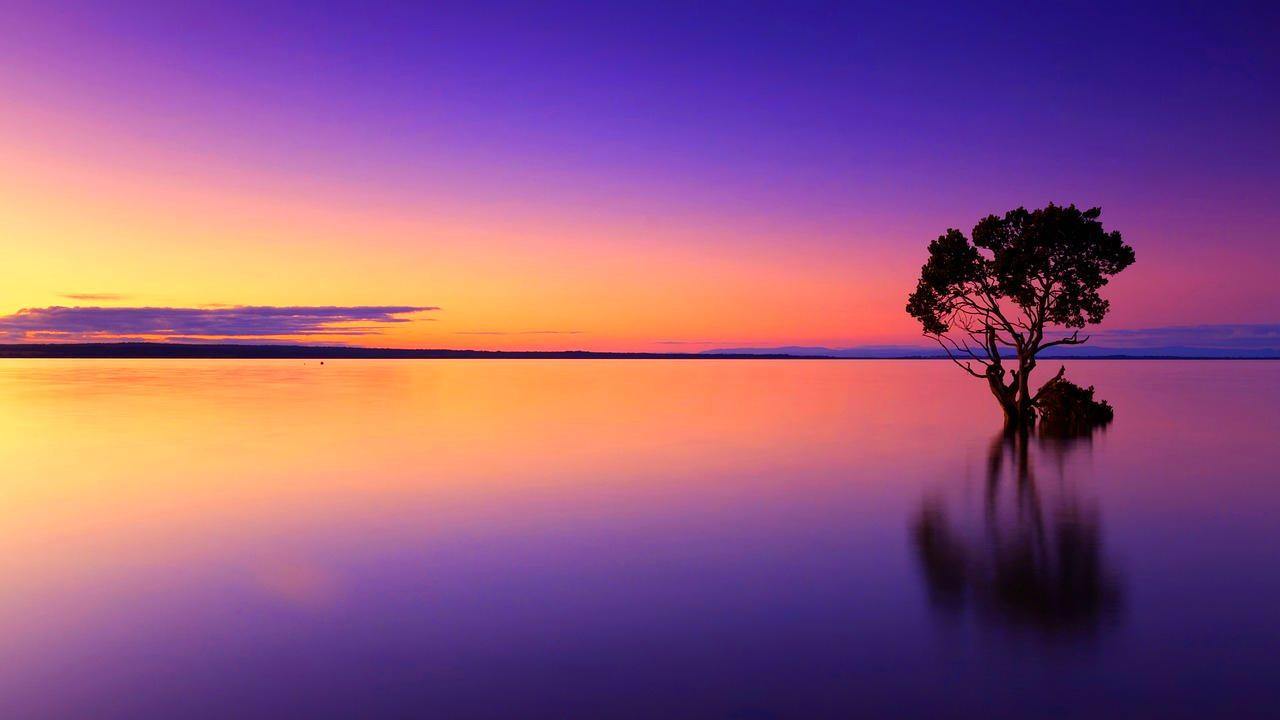
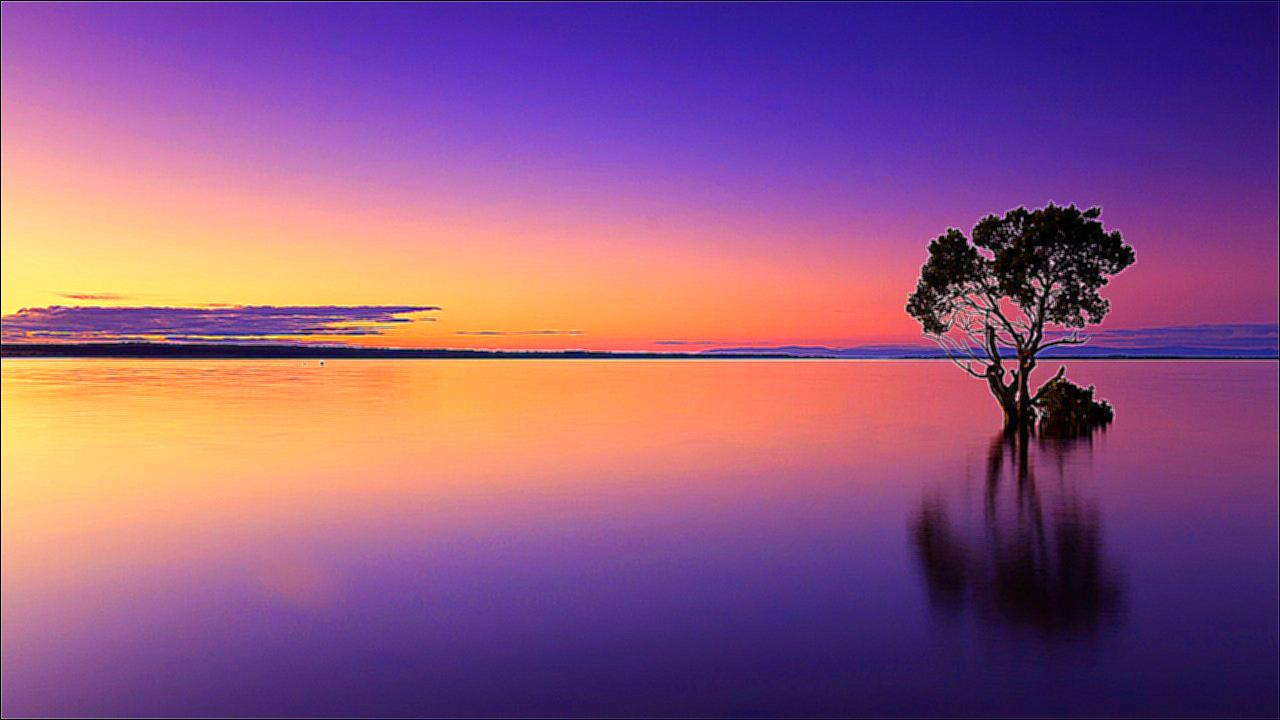
Add layers (multi filter support)

diff --git a/source/cli.py b/source/cli.py
@@ -9,8 +9,9 @@ class CommandLineInterface:
     def setup_parser():
         parser = argparse.ArgumentParser(description="Advanced Image Editing CLI Tool")
         parser.add_argument("--image", required=True, help="Path to the image file")
-        parser.add_argument("--filter", help="Apply a filter")
-        parser.add_argument("--adjust", action='append', nargs=2, metavar=('ADJUSTMENT', 'VALUE'), help="Adjust image properties e.g., --adjust brightness 1.5")
+        parser.add_argument("--filter", action='append', help="Apply a filter e.g., --filter blur")
+        parser.add_argument("--adjust", action='append', nargs=2, metavar=('ADJUSTMENT', 'VALUE'),
+                            help="Adjust image properties e.g., --adjust brightness 1.5")
         parser.add_argument("--save", help="Path to save the edited image")
         parser.add_argument("--display", action='store_true', help="Display the edited image")
         return parser
@@ -19,13 +20,17 @@ class CommandLineInterface:
         args = self.parser.parse_args()
         processor = ImageProcessor(args.image)
 
+        # Process each filter in the order they were provided
         if args.filter:
-            processor.apply_filter(args.filter)
+            for filter_name in args.filter:
+                processor.apply_filter(filter_name)
 
+        # Process each adjustment in the order they were provided
         if args.adjust:
             for adjustment, value in args.adjust:
                 processor.adjust_image(adjustment, float(value))
 
+        # Save or display the image according to the provided options
         if args.save:
             processor.save_image(args.save)
         if args.display:

diff --git a/source/image_processor.py b/source/image_processor.py
@@ -5,8 +5,8 @@ from PIL import ImageEnhance
 
 class ImageProcessor:
     def __init__(self, image_path):
+        # Initialize with a single CustomImage instance that will be modified directly
         self.custom_image = CustomImage(image_path)
-        self.processed_image = CustomImage(image_path)
 
     def apply_filter(self, filter_name):
         filters = {
@@ -16,7 +16,8 @@ class ImageProcessor:
         }
         if filter_name in filters:
             filter_instance = filters[filter_name]
-            self.processed_image = filter_instance.apply(self.custom_image)
+            # Apply the filter directly to the CustomImage instance
+            self.custom_image.image = filter_instance.apply(self.custom_image)
         else:
             raise ValueError(f"Filter '{filter_name}' not supported.")
 
@@ -28,12 +29,13 @@ class ImageProcessor:
         elif adjustment == "saturation":
             enhancer = ImageEnhance.Color(self.custom_image.image)
         else:
-            return  # If adjustment type is unknown, do nothing
+            raise ValueError(f"Adjustment type '{adjustment}' not supported.")
 
-        self.processed_image = enhancer.enhance(value)
+        # Update the image directly in the CustomImage instance
+        self.custom_image.image = enhancer.enhance(float(value))
 
     def save_image(self, path):
-        self.processed_image.save(path)
+        self.custom_image.image.save(path)
 
     def display_image(self):
-        self.processed_image.show()
+        self.custom_image.image.show()
